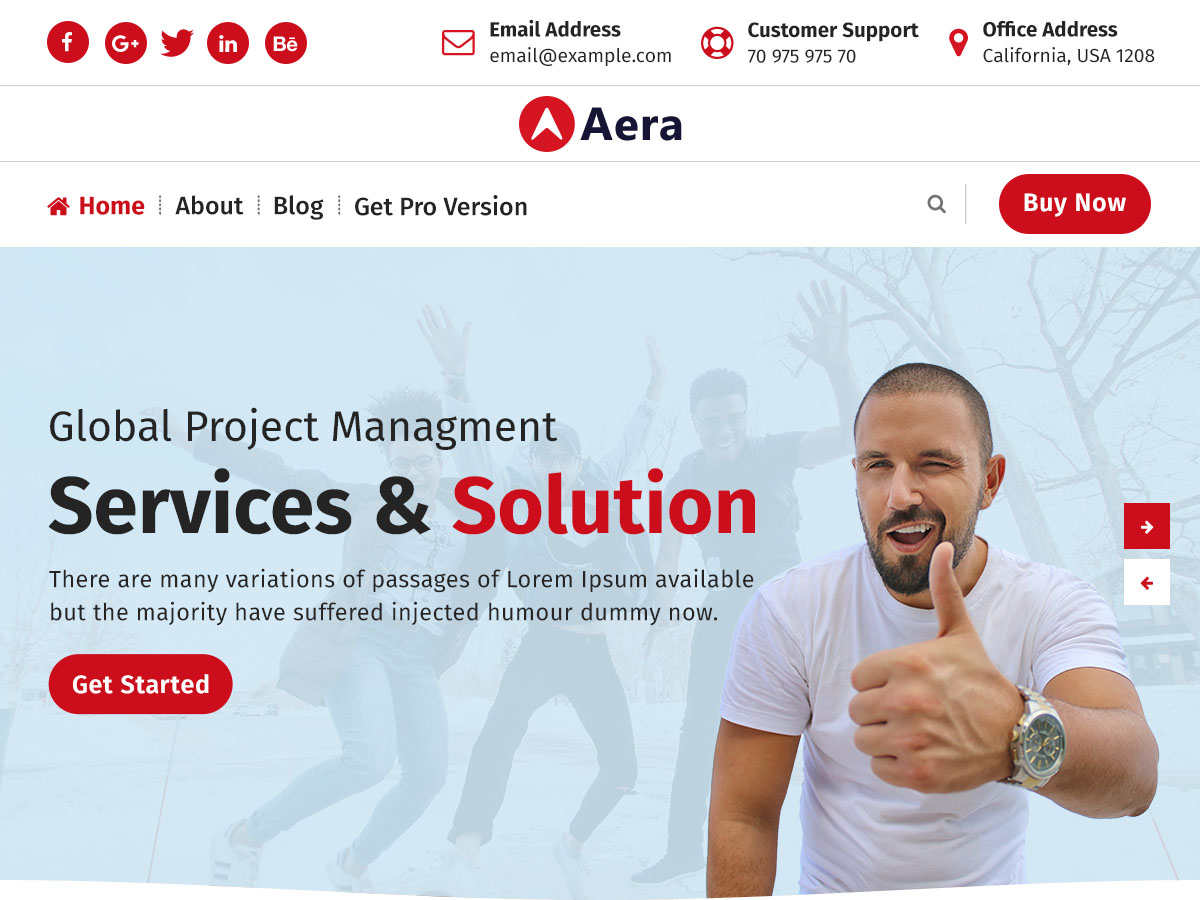
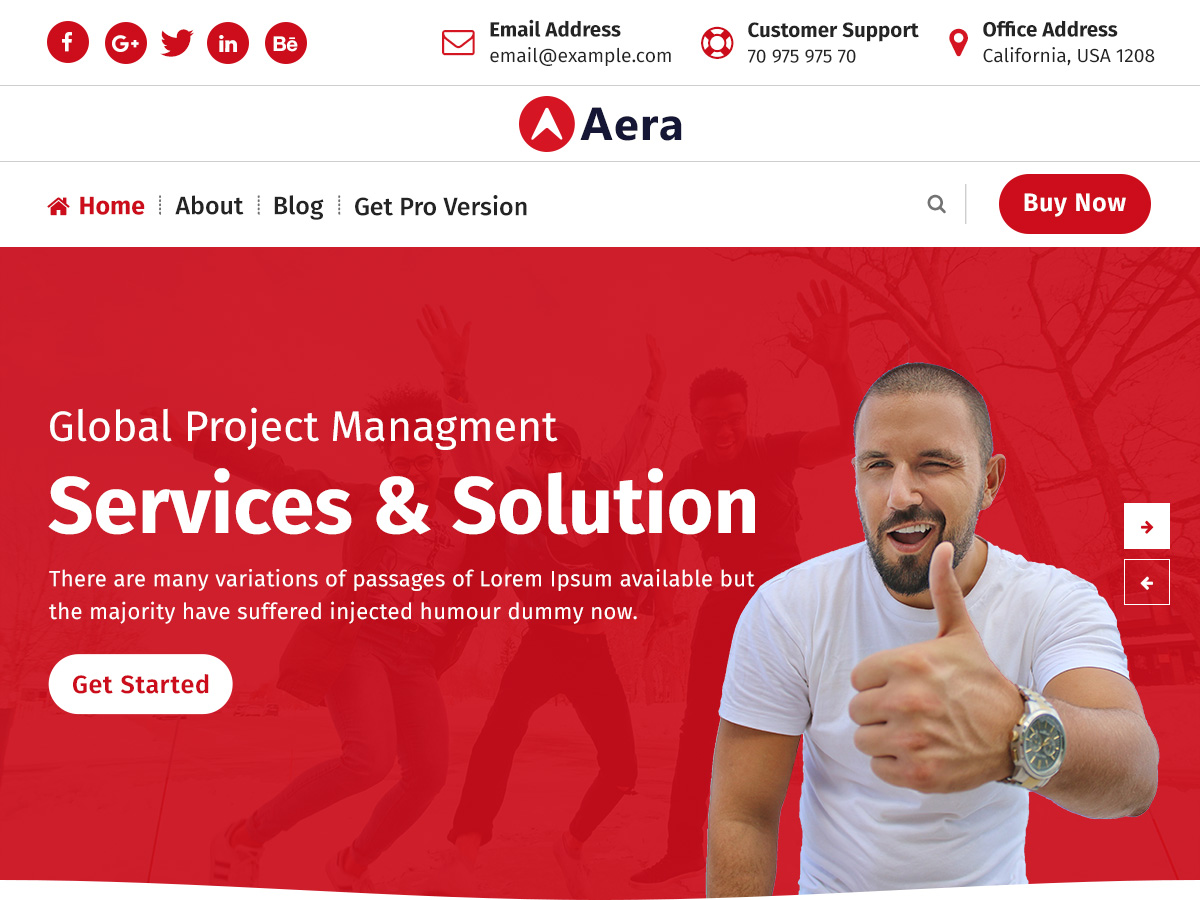
New version of Aera - 1.0.2

diff --git a/style.css b/style.css
@@ -5,8 +5,8 @@ Author: Nayra Themes
 Author URI: https://www.nayrathemes.com/
 Description: Aera is flexible, super fast, easily customizable, lightweight, modern multipurpose theme. Aera comes with everything you could ever need to build an amazing website, and It's perfect for any type of business. View the demo of Aera Pro https://www.nayrathemes.com/demo/pro/?theme=aera
 Template: avril
-Version: 1.0.12
-Tested up to: 5.6
+Version: 1.0.2
+Tested up to: 5.5.1
 Requires PHP: 5.6
 License: GPLv3 or later
 License URI:  https://www.gnu.org/licenses/gpl-3.0.html
@@ -57,8 +57,8 @@ Use it to make something cool, have fun, and share what you've learned with othe
 }
 
 .aera-theme.header-search-active .header-search-popup {
-    z-index: 999;
-    visibility: visible;
+	z-index: 999;
+	visibility: visible;
 }
 
 .aera-theme .search-overlay-layer {
@@ -113,7 +113,7 @@ Use it to make something cool, have fun, and share what you've learned with othe
 }
 
 .aera-theme .header-search-popup form {
-    width: 0;
+	width: 0;
     max-width: 680px;
     -webkit-transition: opacity .5s 0s,width .8s .8s cubic-bezier(.225,.01,.475,1.01),transform .2s 0s;
     -khtml-transition: opacity .5s 0s,width .8s .8s cubic-bezier(.225,.01,.475,1.01),transform .2s 0s;
@@ -127,29 +127,29 @@ Use it to make something cool, have fun, and share what you've learned with othe
 }
 
 .aera-theme.header-search-active .header-search-popup form {
-    width: 100%;
+	width: 100%;
     transition-delay: .7s;
     -webkit-transition-delay: .7s;
 }
     
 .aera-theme .header-search-popup .header-search-close {
-    width: 55px;
+	width: 55px;
     height: 55px;
-    -webkit-transition: all .8s cubic-bezier(.4,0,0,1);
-    -khtml-transition: all .8s cubic-bezier(.4,0,0,1);
-    -moz-transition: all .8s cubic-bezier(.4,0,0,1);
-    -ms-transition: all .8s cubic-bezier(.4,0,0,1);
-    -o-transition: all .8s cubic-bezier(.4,0,0,1);
-    transition: all .8s cubic-bezier(.4,0,0,1);
-    transition-delay: 0s;
-    transition-delay: 0s;
-    -webkit-transition-delay: 0s;
-    -webkit-transform: scale(0);
-    -khtml-transform: scale(0);
-    -moz-transform: scale(0);
-    -ms-transform: scale(0);
-    -o-transform: scale(0);
-    transform: scale(0);
+	-webkit-transition: all .8s cubic-bezier(.4,0,0,1);
+	-khtml-transition: all .8s cubic-bezier(.4,0,0,1);
+	-moz-transition: all .8s cubic-bezier(.4,0,0,1);
+	-ms-transition: all .8s cubic-bezier(.4,0,0,1);
+	-o-transition: all .8s cubic-bezier(.4,0,0,1);
+	transition: all .8s cubic-bezier(.4,0,0,1);
+	transition-delay: 0s;
+	transition-delay: 0s;
+	-webkit-transition-delay: 0s;
+	-webkit-transform: scale(0);
+	-khtml-transform: scale(0);
+	-moz-transform: scale(0);
+	-ms-transform: scale(0);
+	-o-transform: scale(0);
+	transform: scale(0);
 }
 
 .aera-theme .close-style:before,
@@ -164,7 +164,7 @@ Use it to make something cool, have fun, and share what you've learned with othe
 }
 
 .aera-theme.header-search-active .header-search-popup .header-search-close {
-    -webkit-transform: scale(1);
+	-webkit-transform: scale(1);
     -khtml-transform: scale(1);
     -moz-transform: scale(1);
     -ms-transform: scale(1);
@@ -178,7 +178,7 @@ Use it to make something cool, have fun, and share what you've learned with othe
 .aera-theme.header-search-active .header-search-close:hover:after,
 .aera-theme.header-search-active .header-search-close:focus:before,
 .aera-theme.header-search-active .header-search-close:focus:after {
-    -webkit-transform: scale(1.25);
+	-webkit-transform: scale(1.25);
     -khtml-transform: scale(1.25);
     -moz-transform: scale(1.25);
     -ms-transform: scale(1.25);
@@ -187,32 +187,6 @@ Use it to make something cool, have fun, and share what you've learned with othe
 }
 
 /* ========= Aera Slider ========= */
-
-.aera-theme .theme-slider:after {
-    background: #D1E8F5;
-    opacity: 0.9;
-}
-
-.aera-theme .slider-wrapper {
-    color: #222222;
-}
-
-.aera-theme .theme-content h1 span {
-    color: var(--sp-primary);
-}
-
-.aera-theme .theme-content p {
-    font-size: 1rem;
-    font-weight: 400;
-    margin-bottom: 22px;
-}
-
-@media (max-width: 991px) {
-    .aera-theme .theme-content p {
-        font-size: 15px;
-        margin-bottom: 10px;
-    }
-}
 
 .aera-theme .main-slider .owl-nav {
     left: auto;
@@ -227,9 +201,9 @@ Use it to make something cool, have fun, and share what you've learned with othe
 
 .aera-theme .main-slider div.owl-nav [class*=owl-] {
     border-radius: 0;
-    color: var(--sp-primary);
+    color: var(--sp-secondary);
     background-color: var(--sp-white);
-    border: none;
+    border-color: var(--sp-white);
     width: 47px;
     height: 47px;
     line-height: 37px;
@@ -239,6 +213,19 @@ Use it to make something cool, have fun, and share what you've learned with othe
 .aera-theme .main-slider div.owl-nav [class*=owl-]:hover {
 	color: var(--sp-white);
 	background-color: var(--sp-primary);
+}
+
+.aera-theme .theme-content a.av-btn.av-btn-primary {
+    color: var(--sp-primary);
+    background-color: var(--sp-white);
+    border-color: var(--sp-white);
+}
+
+.aera-theme .theme-content a.av-btn.av-btn-primary:hover,
+.aera-theme .theme-content a.av-btn.av-btn-primary:focus {
+	color: var(--sp-white);
+	background-color: var(--sp-primary);
+	border-color: var(--sp-primary);
 }
 
 .aera-theme .theme-slider div.theme-content {

diff --git a/assets/css/responsive.css b/assets/css/responsive.css
@@ -104,6 +104,9 @@
 	.menu-right > ul {
     	padding-left: 12px;
     }
+    li.cart-wrapper {
+	    margin-right: 5px;
+	}
 	li.search-button {
 	    padding-left: 5px;
 	}
@@ -165,7 +168,22 @@
 	.info-wrapper li:not(:last-child) {
 	    margin-right: 0;
 	}
-	
+	.fact-soon .fun-box {
+        flex: 1 1 40%;
+        margin-right: 18px;
+	    padding-right: 18px;
+	    margin-bottom: 18px;
+    }
+    .fact-soon .fun-box:nth-child(2n+2) {
+	    margin-right: 0;
+	    padding-right: 0;
+	}
+	.fact-soon .fun-box:nth-child(2n+2):after {
+		border-right-width: 0px;
+	}
+	.fact-soon .fun-box:last-child {
+		margin-bottom: 0;
+	}
 	.widget-left .widget:nth-child(2n+3),
 	.widget-left .widget:first-child,
 	.widget-right .widget:nth-child(n+2),
@@ -283,6 +301,9 @@
 	.footer-copyright .widget-right {
 	    justify-content: center;
 	}
+	.about-panel {
+	    padding: 0;
+	}
 	.cta-wrapper {
 	    -ms-flex-wrap: wrap;
 	    flex-wrap: wrap;
@@ -309,6 +330,26 @@
 	    left: -32px;
 	    width: 40px;
 	}
+	.fact-soon .fun-box {
+        flex: 1 1 100%;
+        margin: 0;
+        padding: 0;
+        margin-bottom: 20px;
+        padding-bottom: 20px;
+    }
+    .fact-soon .fun-box:not(:last-child):after {
+	    border-right-width: 0px;
+	    border-bottom-width: 1px;
+	    margin: 0 auto;
+	    top: auto;
+	    bottom: 0;
+	    left: 0;
+	    width: 300px;
+	}
+    .fact-soon .fun-box:last-child {
+    	margin-bottom: 0px;
+    	padding-bottom: 0px;
+    }
     .footer-main .widget {
 	    margin-bottom: 1.2rem;
 	}
@@ -492,14 +533,17 @@
         font-size: 23px;
         align-items: center;
     }
-    .mobile-menu-right .header-search-toggle {
+    .mobile-menu-right .header-search-toggle,
+    .mobile-menu-right .cart-icon-wrap #cart {
         font-size: 14px;
     }
     .hamburger-menu .menu-toggle {
         padding: 4px 5px 4px;
     }
     .cart-wrap, .hamburger-menu,
-    .mobile-menu-right .header-search-toggle {
+    .mobile-menu-right .header-search-toggle,
+    .mobile-menu-right .cart-icon-wrap #cart,
+    .cart-icon .cart-icon-wrapper i {
         width: 32px;
         height: 32px;
         line-height: 1.65;

diff --git a/functions.php b/functions.php
@@ -51,19 +51,3 @@ add_action( 'wp_enqueue_scripts', 'aera_scripts_styles' );
  * Called all the Customize file.
  */
 require( get_stylesheet_directory() . '/inc/customize/aera-premium.php');
-
-
-
-/**
- * Import Options From Parent Theme
- *
- */
-function aera_parent_theme_options() {
-	$avril_mods = get_option( 'theme_mods_avril' );
-	if ( ! empty( $avril_mods ) ) {
-		foreach ( $avril_mods as $avril_mod_k => $avril_mod_v ) {
-			set_theme_mod( $avril_mod_k, $avril_mod_v );
-		}
-	}
-}
-add_action( 'after_switch_theme', 'aera_parent_theme_options' );
